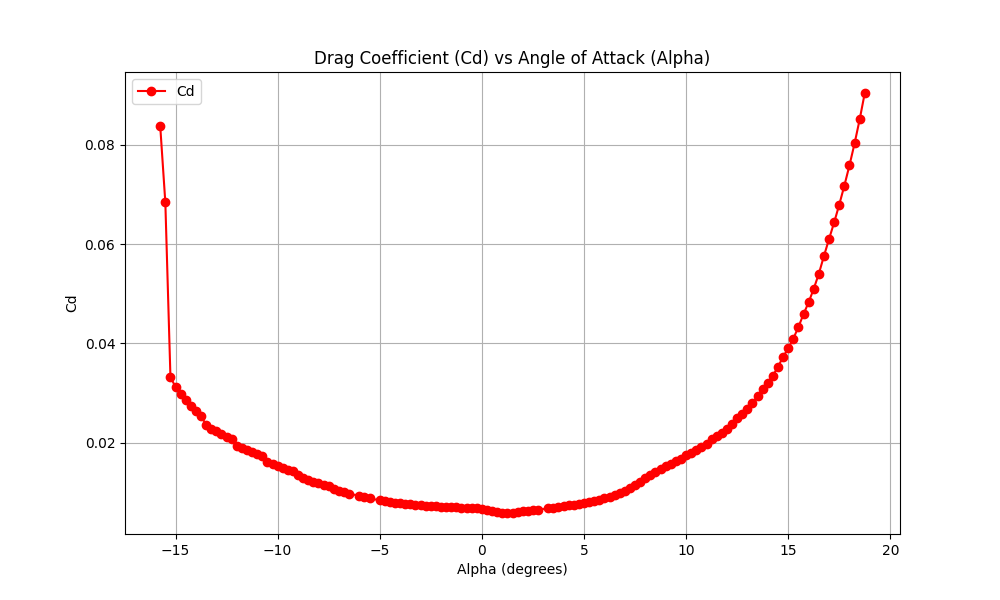
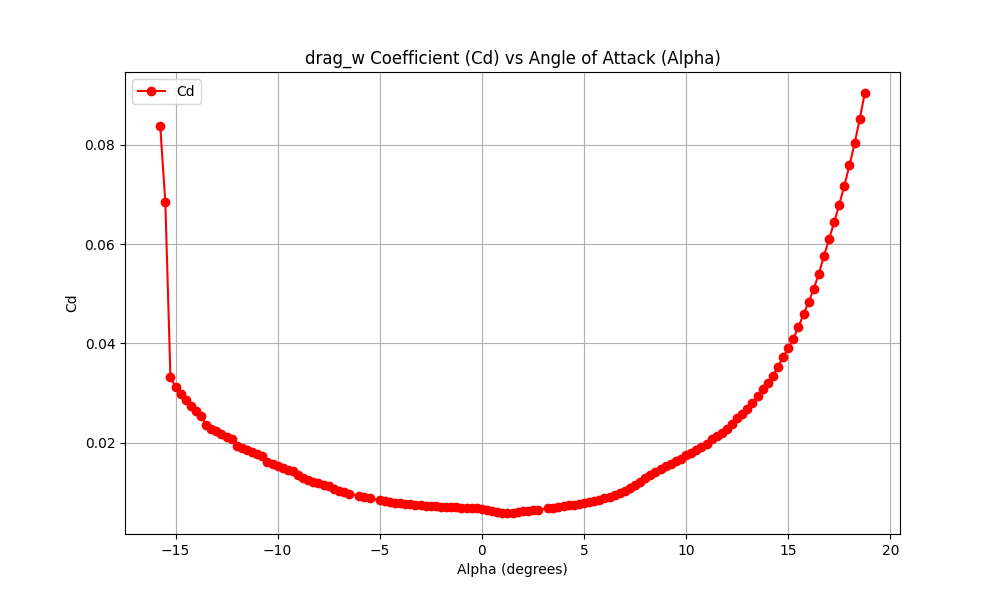
tail constants and plots, updated readme

Changed region(s): [[0.31, 0.06, 0.713, 0.12]]

diff --git a/src/main.py b/src/main.py
@@ -9,10 +9,16 @@ data = pd.read_csv(file_path, skiprows=10)
 ## Constants
 
 rho = 1.225  # Air density (kg/m^3)
-b = 0.762  # Wing span (m)
 c = 0.1016  # Chord length (m)
-S = b * c  # Wing area (m^2)
-AR = b**2 / S  # Aspect ratio
+
+b_w = 0.762  # Wing span (m)
+S_w = b_w * c  # Wing area (m^2)
+AR_w = b_w**2 / S_w  # Aspect ratio
+
+b_t = 0.303  # Wing span (m) UP FOR VARIATION
+S_t = b_t * c  # Wing area (m^2)
+AR_t = b_t**2 / S_t  # Aspect ratio
+i_t = 0  # Incidence angle of the tail (degrees)
 
 W_est = 7 # Estimated weight of the aircraft (N)
 
@@ -26,53 +32,91 @@ alpha = np.array(data['Alpha'])
 ################################# Main Wing Body Calculations #########################################
 #######################################################################################################
 
-# for 1 to 20 m/s
+# for 1 to 40 m/s
 velocity = np.arange(1, 41, 1)
 trim_alpha = np.arange(-5, 6, .25)
-lift_arr = []
-drag_arr = []
-L_D_arr = []
+lift_w_arr = []
+drag_w_arr = []
+L_D_w_arr = []
 
-# Loop over trim_alpha and velocity to calculate lift and drag
+# Loop over trim_alpha and velocity to calculate lift_w and drag_w
 for a in trim_alpha:
-  lift_values = []
-  drag_values = []
-  L_D_values = []
+  lift_w_values = []
+  drag_w_values = []
+  L_D_w_values = []
   if a in alpha:
     index_a = np.where(alpha == a)[0][0]
     for v in velocity:
-      # Calculate Lift and Drag at this velocity and angle of attack
-      lift = 0.5 * rho * v**2 * S * cl[index_a]
-      drag = 0.5 * rho * v**2 * S * cd[index_a]
-      # Append lift and drag values to the respective lists
-      lift_values.append(lift)
-      drag_values.append(drag)
-      L_D_values.append(lift / drag)
+      # Calculate lift_w and drag_w at this velocity and angle of attack
+      lift_w = 0.5 * rho * v**2 * S_w * cl[index_a]
+      drag_w = 0.5 * rho * v**2 * S_w * cd[index_a]
+      # Append lift_w and drag_w values to the respective lists
+      lift_w_values.append(lift_w)
+      drag_w_values.append(drag_w)
+      L_D_w_values.append(lift_w / drag_w)
   else:
     # If the angle of attack is not in alpha, append zeros or handle appropriately
-    lift_values = [0] * len(velocity)
-    drag_values = [0] * len(velocity)
-    L_D_values = [0] * len(velocity)
-  # Append the list of lift and drag values for this trim_alpha to the main lists
-  lift_arr.append(lift_values)
-  drag_arr.append(drag_values)
-  L_D_arr.append(L_D_values)
+    lift_w_values = [0] * len(velocity)
+    drag_w_values = [0] * len(velocity)
+    L_D_w_values = [0] * len(velocity)
+  # Append the list of lift_w and drag_w values for this trim_alpha to the main lists
+  lift_w_arr.append(lift_w_values)
+  drag_w_arr.append(drag_w_values)
+  L_D_w_arr.append(L_D_w_values)
 
 # Convert lists to numpy arrays for easier manipulation and analysis
-lift_arr = np.array(lift_arr)
-drag_arr = np.array(drag_arr)
-L_D_arr = np.array(L_D_arr)
-
-
+lift_w_arr = np.array(lift_w_arr)
+drag_w_arr = np.array(drag_w_arr)
+L_D_w_arr = np.array(L_D_w_arr)
 
 #######################################################################################################
-########################################## Plotting Data #############################################
+######################################### Tail Calculations ###########################################
 #######################################################################################################
+
+lift_t_arr = []
+drag_t_arr = []
+L_D_t_arr = []
+
+# Loop over trim_alpha and velocity to calculate lift_w and drag_w
+for a in trim_alpha:
+  lift_t_values = []
+  drag_t_values = []
+  L_D_t_values = []
+  if a in alpha:
+    index_a = np.where(alpha == a)[0][0]
+    for v in velocity:
+      # Calculate lift_w and drag_w at this velocity and angle of attack
+      lift_t = 0.5 * rho * v**2 * S_t * cl[index_a]
+      drag_t = 0.5 * rho * v**2 * S_t * cd[index_a]
+      # Append lift_w and drag_w values to the respective lists
+      lift_t_values.append(lift_t)
+      drag_t_values.append(drag_t)
+      L_D_t_values.append(lift_t / drag_t)
+  else:
+    # If the angle of attack is not in alpha, append zeros or handle appropriately
+    lift_t_values = [0] * len(velocity)
+    drag_t_values = [0] * len(velocity)
+    L_D_t_values = [0] * len(velocity)
+  # Append the list of lift_w and drag_w values for this trim_alpha to the main lists
+  lift_t_arr.append(lift_t_values)
+  drag_t_arr.append(drag_t_values)
+  L_D_t_arr.append(L_D_t_values)
+
+# Convert lists to numpy arrays for easier manipulation and analysis
+lift_t_arr = np.array(lift_t_arr)
+drag_t_arr = np.array(drag_t_arr)
+L_D_t_arr = np.array(L_D_t_arr)
+
+#######################################################################################################
+########################################## Plotting Data ##############################################
+#######################################################################################################
+
+###### AIRFOIL DATA ######
 
 # Plotting Cl vs Alpha
 plt.figure(figsize=(10, 6))
 plt.plot(alpha, cl, marker='o', linestyle='-', color='b', label='Cl')
-plt.title('Lift Coefficient (Cl) vs Angle of Attack (Alpha)')
+plt.title('lift_w Coefficient (Cl) vs Angle of Attack (Alpha)')
 plt.xlabel('Alpha (degrees)')
 plt.ylabel('Cl')
 plt.grid(True)
@@ -83,7 +127,7 @@ plt.close()
 # Plotting Cd vs Alpha
 plt.figure(figsize=(10, 6))
 plt.plot(alpha, cd, marker='o', linestyle='-', color='r', label='Cd')
-plt.title('Drag Coefficient (Cd) vs Angle of Attack (Alpha)')
+plt.title('drag_w Coefficient (Cd) vs Angle of Attack (Alpha)')
 plt.xlabel('Alpha (degrees)')
 plt.ylabel('Cd') 
 plt.grid(True)
@@ -91,34 +135,69 @@ plt.legend()
 plt.savefig('plots/Cd_vs_Alpha.png')
 plt.close()
 
+###### MAIN WING DATA ######
+
 # Plot L/D vs trim alpha for 10 m/s
 plt.figure(figsize=(10, 6))
-plt.plot(trim_alpha, L_D_arr, marker='o', linestyle='-', color='g')
-plt.title('Lift-to-Drag Ratio (L/D) vs Trim Angle of Attack for 10 m/s')
+plt.plot(trim_alpha, L_D_w_arr, marker='o', linestyle='-', color='g')
+plt.title('lift_w-to-drag_w Ratio (L/D) vs Trim Angle of Attack for 10 m/s')
 plt.xlabel('Trim Alpha (degrees)')
 plt.ylabel('L/D')
 plt.grid(True)
-plt.savefig('plots/L_D_vs_TrimAlpha_10ms.png')
+plt.savefig('plots/L_D_w_vs_TrimAlpha_10ms.png')
 plt.close()
 
-# Plot Lift vs velocity for trim alpha = 5 degrees
+# Plot lift_w vs velocity for trim alpha = 5 degrees
 plt.figure(figsize=(10, 6))
-plt.plot(velocity, lift_arr[20], marker='o', linestyle='-', color='b')
+plt.plot(velocity, lift_w_arr[20], marker='o', linestyle='-', color='b')
 plt.plot(velocity, [W_est]*len(velocity), marker='o', linestyle='-', color='r', label='Weight Estimate')
-plt.title('Lift vs Velocity for Trim Alpha = 5 degrees')
+plt.title('lift_w vs Velocity for Trim Alpha = 5 degrees')
 plt.xlabel('Velocity (m/s)')
-plt.ylabel('Lift (N)')
+plt.ylabel('lift_w (N)')
 plt.grid(True)
 plt.legend()
-plt.savefig('plots/Lift_vs_Velocity_5deg.png')
+plt.savefig('plots/lift_w_vs_Velocity_5deg.png')
 plt.close()
 
-# Plot Drag vs velocity for trim alpha = 5 degrees
+# Plot drag_w vs velocity for trim alpha = 5 degrees
 plt.figure(figsize=(10, 6))
-plt.plot(velocity, drag_arr[20], marker='o', linestyle='-', color='b')
-plt.title('Drag vs Velocity for Trim Alpha = 5 degrees')
+plt.plot(velocity, drag_w_arr[20], marker='o', linestyle='-', color='b')
+plt.title('drag_w vs Velocity for Trim Alpha = 5 degrees')
 plt.xlabel('Velocity (m/s)')
-plt.ylabel('Drag (N)')
+plt.ylabel('drag_w (N)')
 plt.grid(True)
-plt.savefig('plots/Drag_vs_Velocity_5deg.png')
+plt.savefig('plots/drag_w_vs_Velocity_5deg.png')
 plt.close()
+
+###### TAIL DATA ######
+
+# Plot L/D vs trim alpha for 10 m/s
+plt.figure(figsize=(10, 6))
+plt.plot(trim_alpha, L_D_t_arr, marker='o', linestyle='-', color='g')
+plt.title('lift_t-to-drag_t Ratio (L/D) vs Trim Angle of Attack for 10 m/s')
+plt.xlabel('Trim Alpha (degrees)')
+plt.ylabel('L/D')
+plt.grid(True)
+plt.savefig('plots/L_D_t_vs_TrimAlpha_10ms.png')
+plt.close()
+
+# Plot lift_t vs velocity for trim alpha = 5 degrees
+plt.figure(figsize=(10, 6))
+plt.plot(velocity, lift_t_arr[20], marker='o', linestyle='-', color='b')
+plt.title('lift_t vs Velocity for Trim Alpha = 5 degrees')
+plt.xlabel('Velocity (m/s)')
+plt.ylabel('lift_t (N)')
+plt.grid(True)
+plt.savefig('plots/lift_t_vs_Velocity_5deg.png')
+plt.close()
+
+# Plot drag_t vs velocity for trim alpha = 5 degrees
+plt.figure(figsize=(10, 6))
+plt.plot(velocity, drag_t_arr[20], marker='o', linestyle='-', color='b')
+plt.title('drag_t vs Velocity for Trim Alpha = 5 degrees')
+plt.xlabel('Velocity (m/s)')
+plt.ylabel('drag_t (N)')
+plt.grid(True)
+plt.savefig('plots/drag_t_vs_Velocity_5deg.png')
+plt.close()
+

diff --git a/README.md b/README.md
@@ -4,22 +4,33 @@
 
 <img src="media/plane-render.png" alt="Rendering of Drone" width="400" height="240">
 
-### Main Wing Body
+### Wing Body/Tail Design
 
-- `b` = 2.5ft = .762m
+- `b_w` = 2.5ft = .762m
 - `c_bar` = 4in = .1016m
-- `S` = .0774 m^2
+- `S_w` = .0774 m^2
 
 **Airfoil**: NACA 4412 - plots at Re = 1e6
 
 <p style="margin: 0;">
   <img src="plots/Cl_vs_Alpha.png" alt="Cl vs Alpha" width="400" height="240">
   <img src="plots/Cd_vs_Alpha.png" alt="Cd vs Alpha" width="400" height="240">
+  <img src="plots/L_D_w_vs_TrimAlpha_10ms.png" alt="L/D for 10m/s vs trim alpha" width="400" height="240">
 </p>
 
-**Wing Body L/D vs Trim Alpha at 10m/s**
+**Wing Body Plots**
 
-<img src="plots/L_D_vs_TrimAlpha_10ms.png" alt="L/D for 10m/s vs trim alpha" width="400" height="240">
+<p style="margin: 0">
+  <img src="plots/lift_w_vs_Velocity_5deg.png" alt="Wing lift vs Velocity at 5deg trim" width="400" height="240">
+  <img src="plots/drag_w_vs_Velocity_5deg.png" alt="Drag lift vs Velocity at 5deg trim" width="400" height="240">
+</p>
+
+**Tail Plots**
+
+<p style="margin: 0">
+  <img src="plots/lift_t_vs_Velocity_5deg.png" alt="Wing lift vs Velocity at 5deg trim" width="400" height="240">
+  <img src="plots/drag_t_vs_Velocity_5deg.png" alt="Drag lift vs Velocity at 5deg trim" width="400" height="240">
+</p>
 
 
 ### 3d Printing and Design
